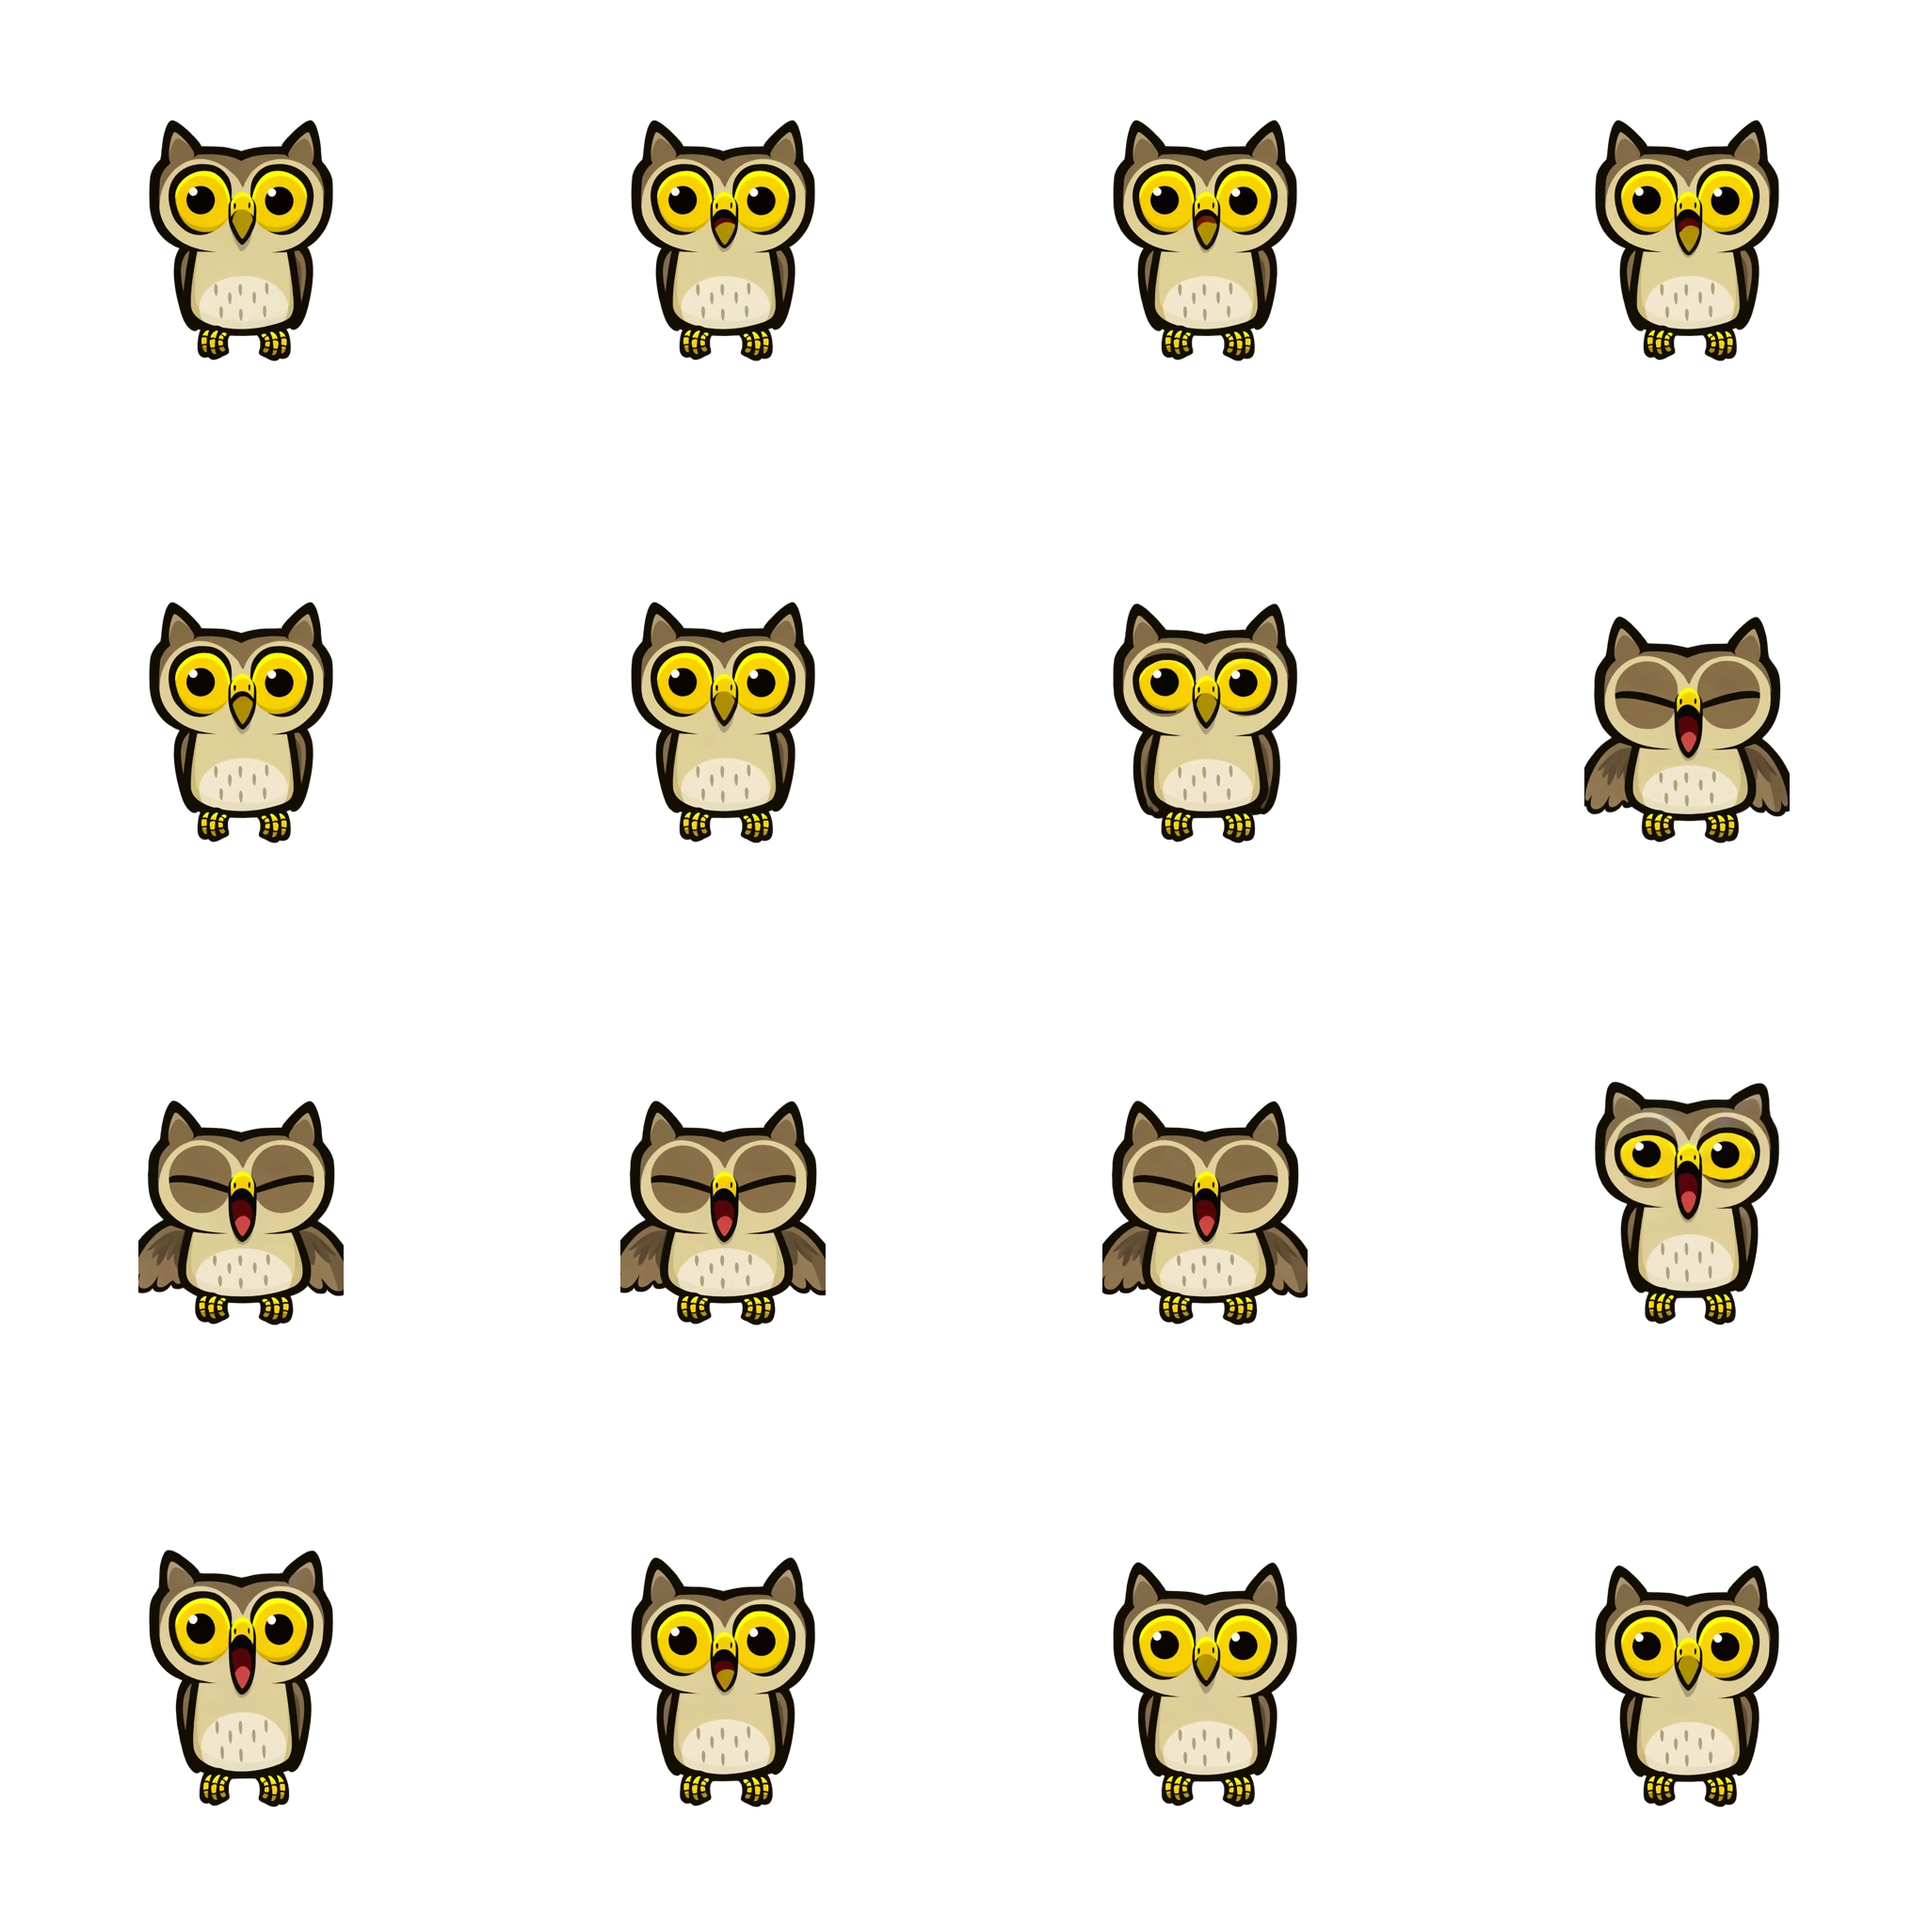
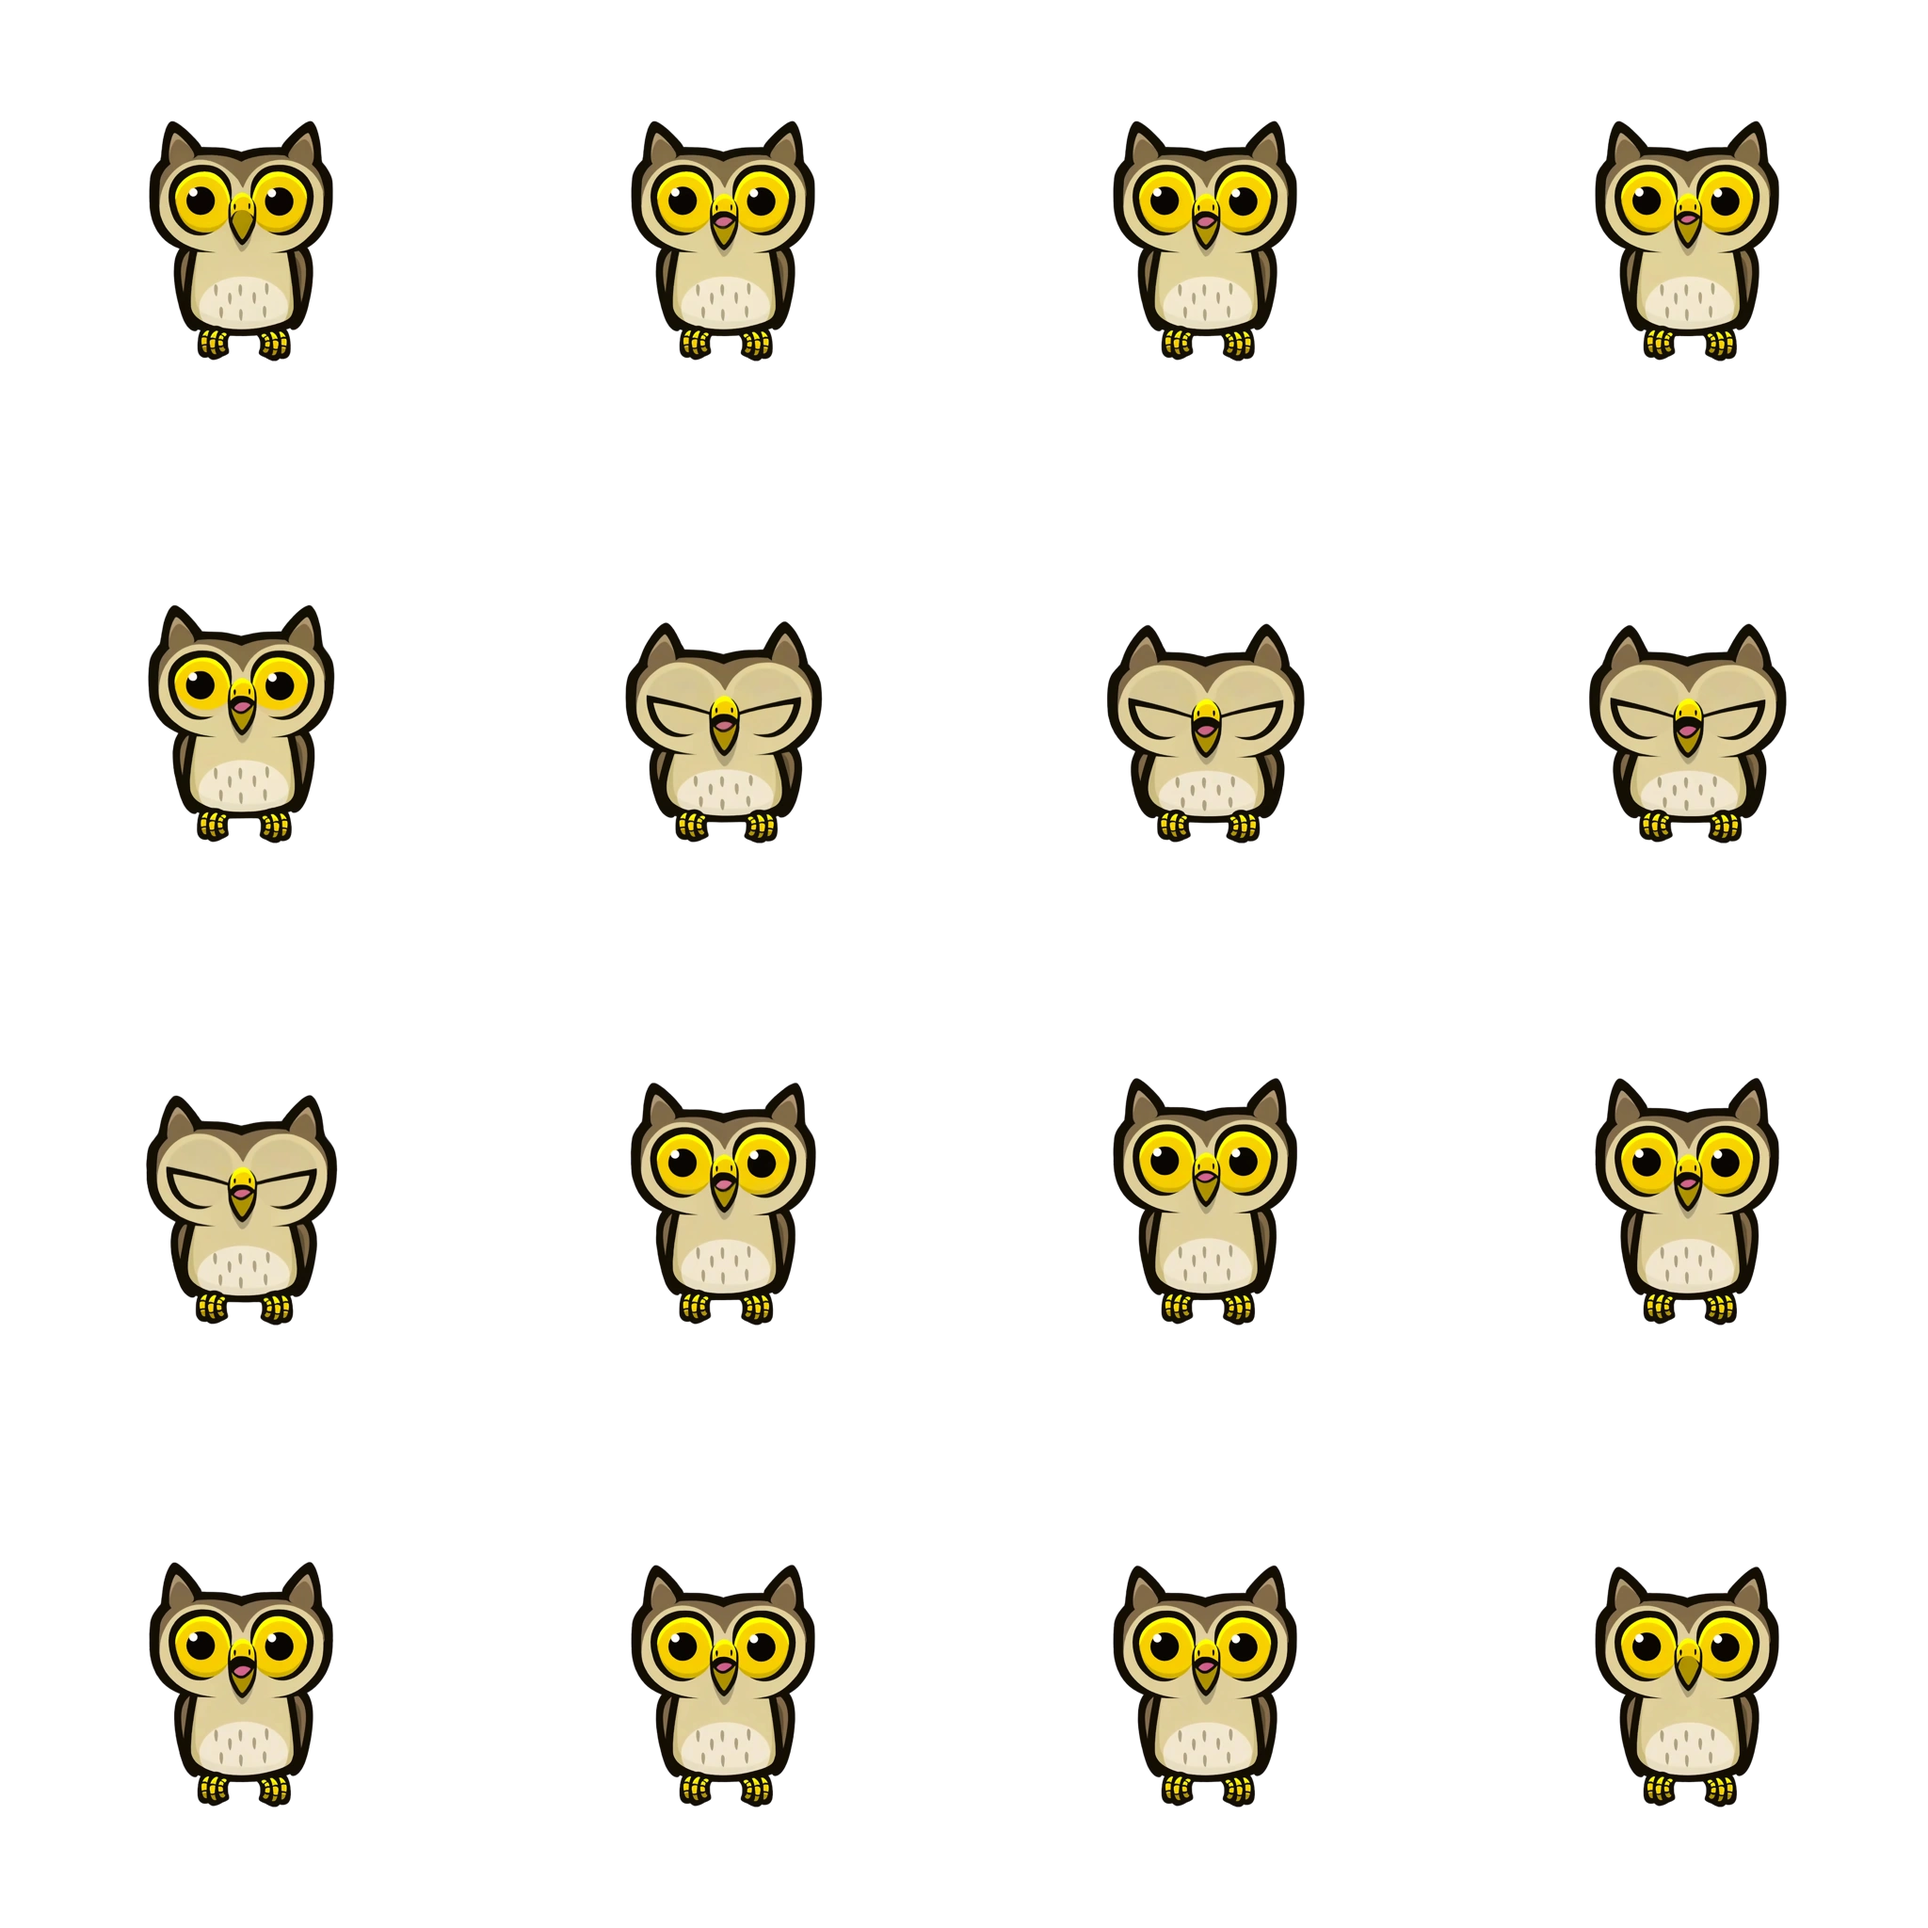
fix(animals): stop Duchess's angry clip flaring her wings
Flagged in review: the flared wings read as detached brown wedges. Measured first
— no frame came near the cell edge (218px widest in a 512px cell), so nothing was
being cropped; the generator was simply drawing them badly.

Two failed attempts confirmed that forbidding the flare does not work. "The wings
stay folded flat against its sides, never raised, never spread, never flared" was
ignored exactly as "the eyes never close" had been: `angry bird` carries a
wing-display prior, and a negation does not beat a prior.

What worked was dropping the emotion word that summoned the motion and asserting
the still parts positively — "its body, wings and feet stay exactly as in the
reference image and do not move at all, ONLY THE FACE MOVES". Wings now stay
tucked for the whole clip and the silhouette varies 7% across frames, down from
10% (the good `sneaky` clip sits at 3%).

The expression now reads as a heavy-lidded scowl rather than full fury, which is
an honest description of what shipped. Generalised rule is in the skill: to
suppress a motion, name what holds still, do not forbid what must not happen.

diff --git a/src/phaser/animals/emotionSheets.generated.ts b/src/phaser/animals/emotionSheets.generated.ts
@@ -78,8 +78,8 @@ export const EMOTION_SHEETS: Partial<
       frameHeight: 512,
       frameCount: 16,
       frameRate: 12,
-      scale: 2.1241,
-      originX: 0.5009,
+      scale: 2.2129,
+      originX: 0.5019,
       originY: 0.75,
     },
     doubtful: {

diff --git a/.claude/skills/animal-emotion-sprites/SKILL.md b/.claude/skills/animal-emotion-sprites/SKILL.md
@@ -101,11 +101,14 @@ here because ignoring them costs credits.
 4. **Say "in place", "no travel".** Left unsaid, the model walks the animal out of frame.
 5. **Keep the silhouette.** The reference frame carries the character; the prompt should only
    ever move it.
-6. **Negations work for gross body actions, not for small habitual ones.** "Never lies down",
-   "never takes off" and "no perch appears" all held. "The eyes never close, never blink" was
-   ignored across two attempts — blinking is too strong a prior in any owl animation. If a
-   small motion has to be suppressed, find a positive phrasing that displaces it rather than
-   forbidding it.
+6. **To suppress a motion, assert stillness — do not forbid the motion.** Negations hold only
+   when the model had no strong prior pulling the other way. "Never lies down", "never takes
+   off" and "no perch appears" all held. "The eyes never close" and "the wings stay folded,
+   never spread, never flared" were both ignored, because *angry bird* carries a wing-display
+   prior and *owl* carries a blink prior. What finally worked was describing the still parts
+   positively and dropping the emotion word that summoned the motion: "its body, wings and feet
+   stay exactly as in the reference image and do not move at all — ONLY THE FACE MOVES". Name
+   what holds, not what must not happen.
 
 **`angry` is the hardest emotion.** It came out weak on the first pass for both animals
 generated so far, and three attempts on the owl did not fix it. Budget for iteration there, or
